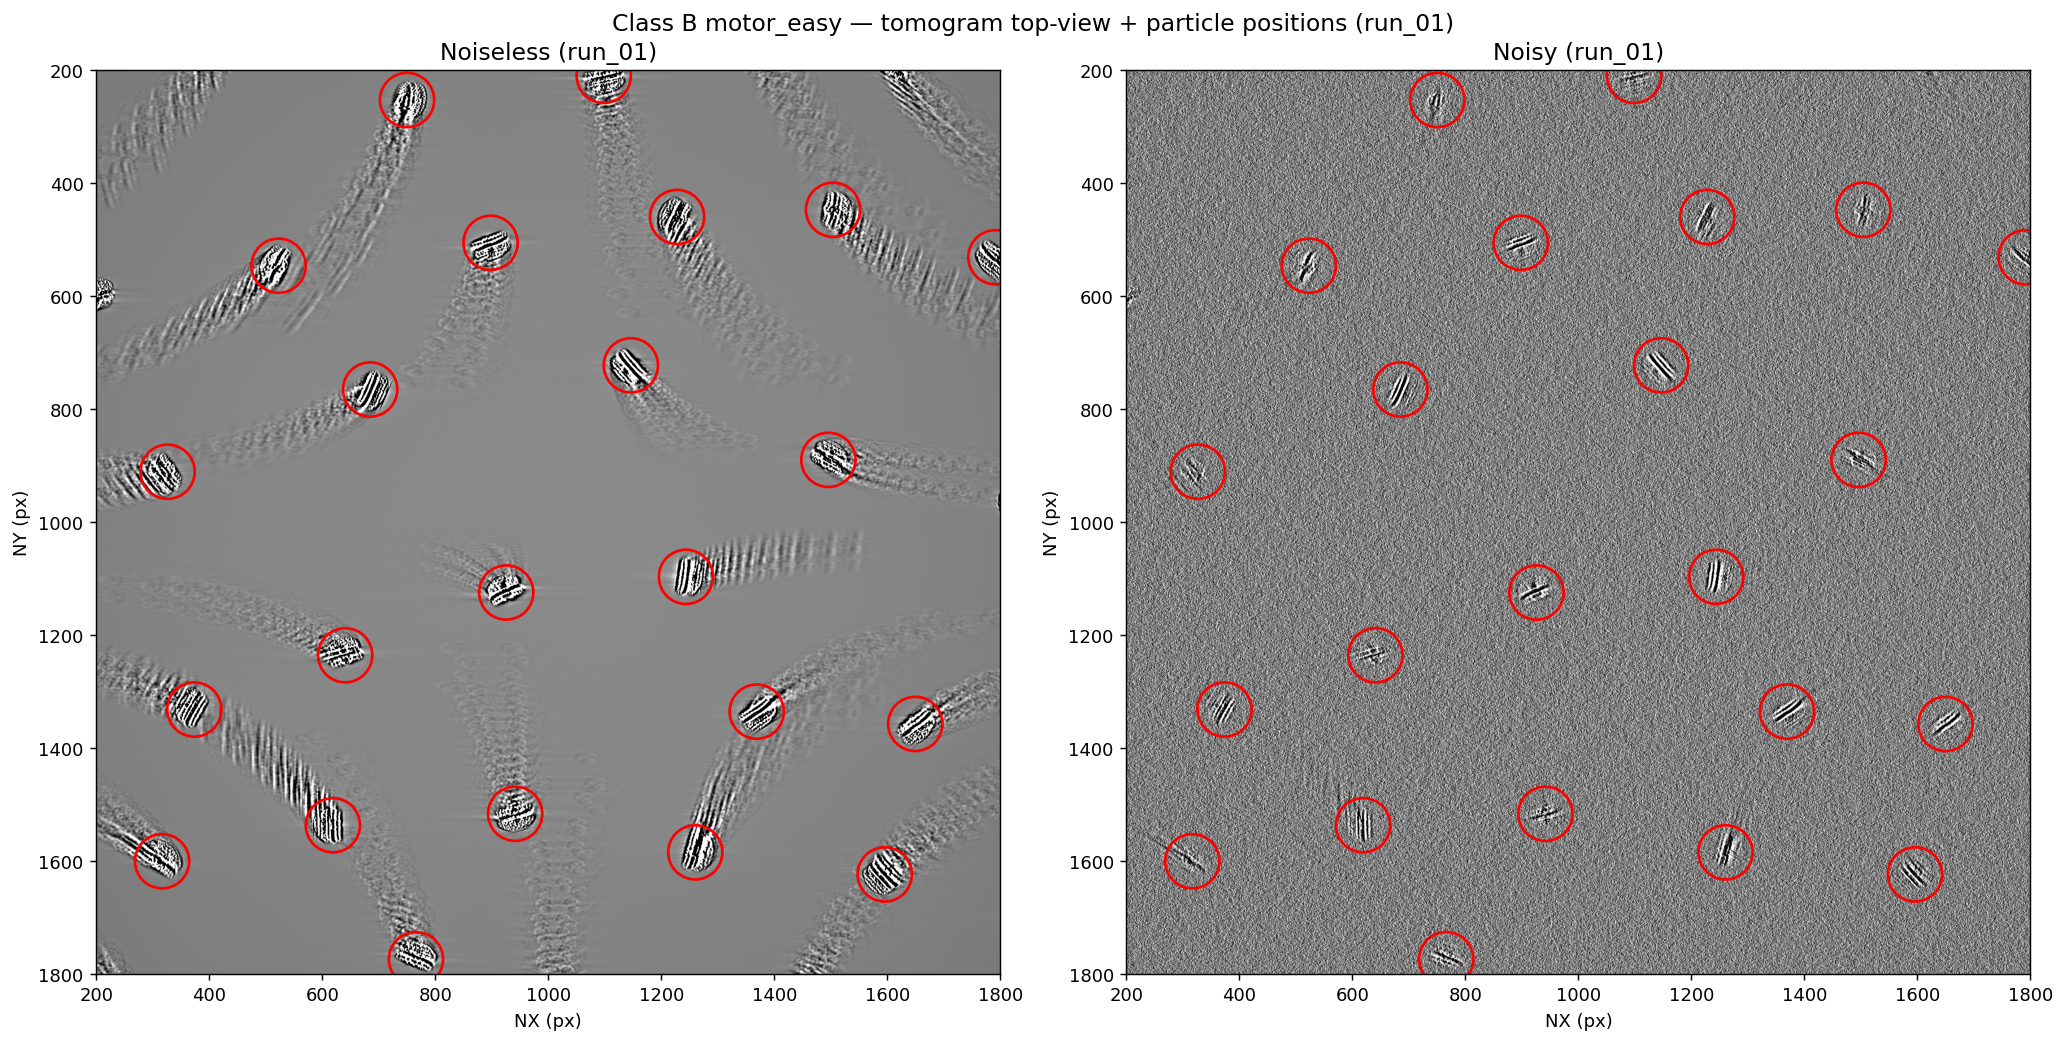
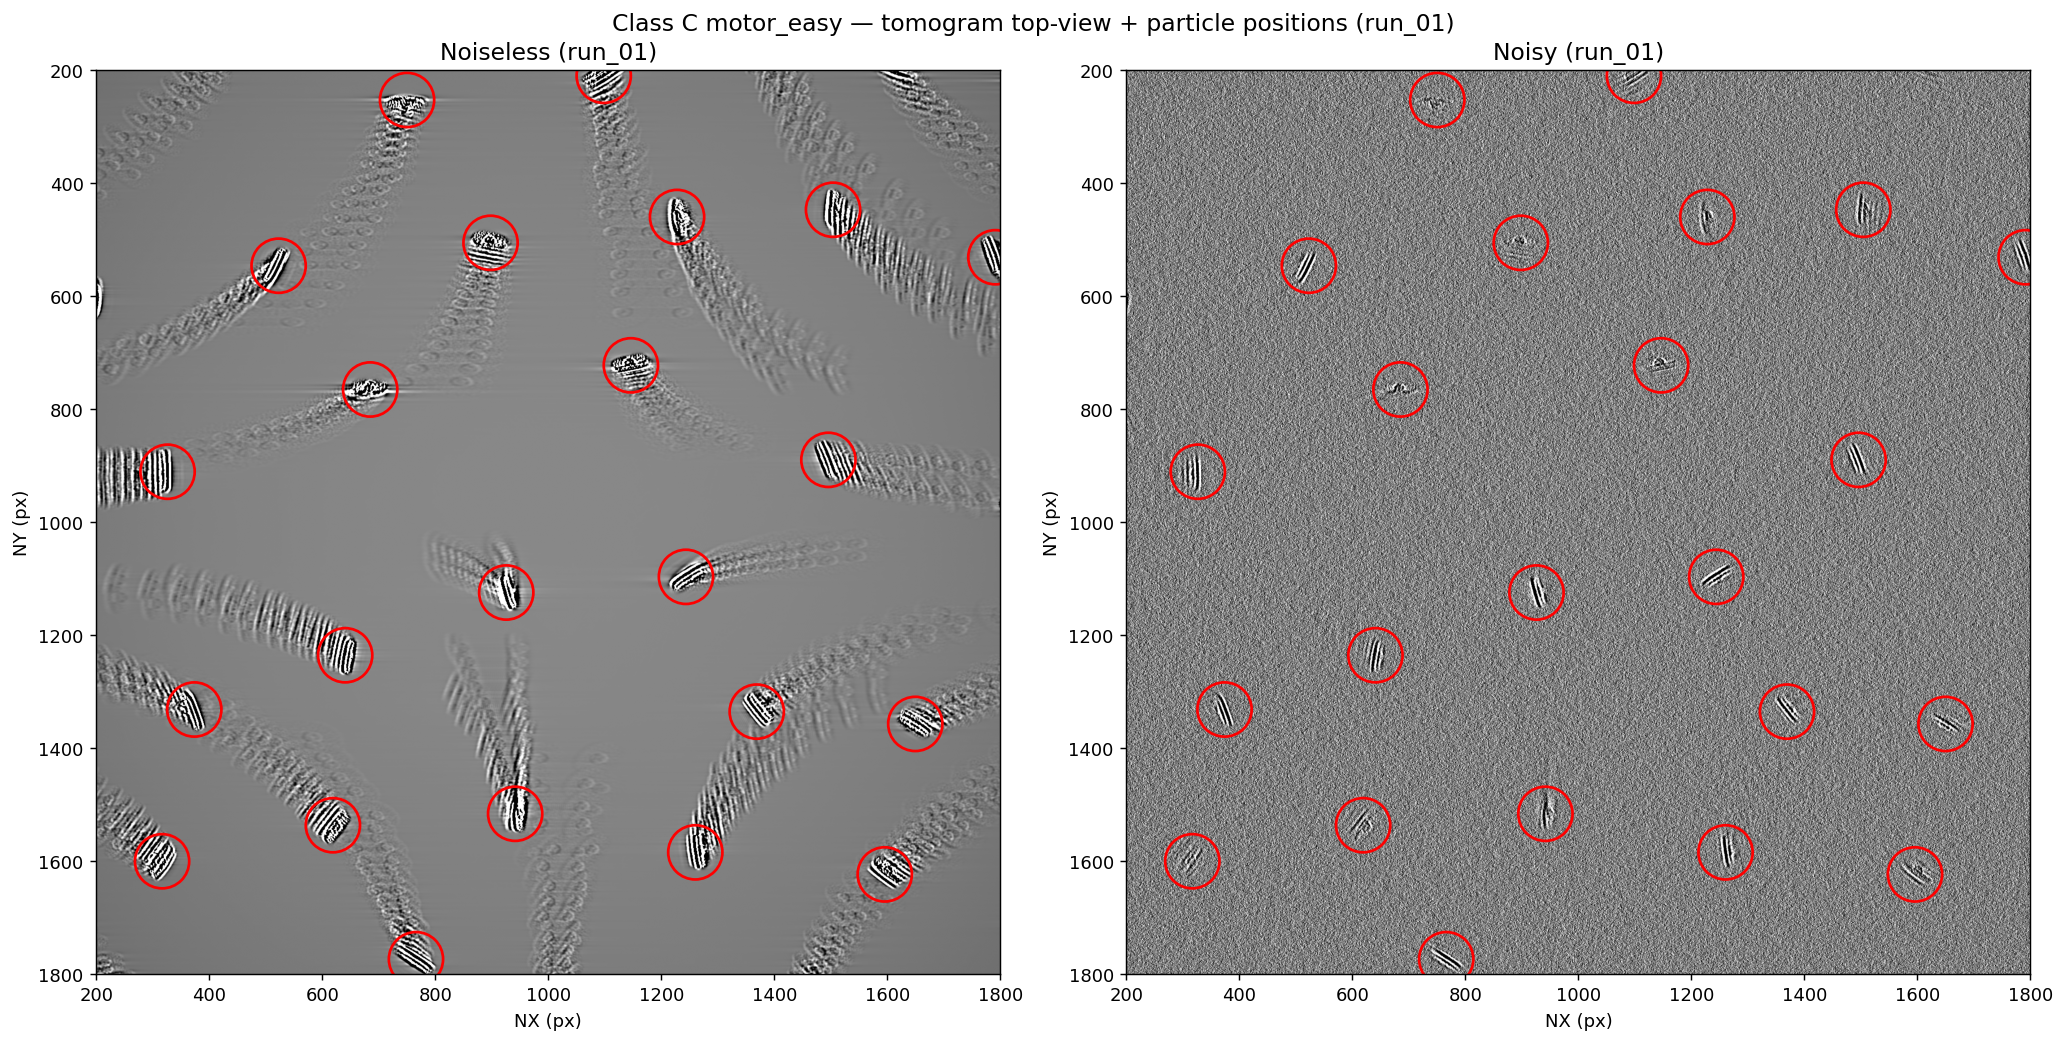
README: apply review corrections and add synthetic class map figures
- Fix SPA background: clarify images are of different randomly-oriented
  particles at different grid positions, not a tilted sample
- Update Project Goal to reflect 4 planned datasets (2 real, 2 synthetic)
- Strengthen "What Makes This Unique" ground-truth row
- Add note that excluding 2D classifiers is a known scope limitation
- Cite Stefano's bioRxiv preprint; describe T4P classes as lower
  periplasmic ring conformational states per Figure 2; temper language
  around Dynamo result and UMAP separation
- Switch synthetic tomogram figure to class C (noiseless+noisy available;
  caption explains all classes are visually indistinguishable in raw data)
- Replace class B/C average pair with class A/C; add generated classA_avg.png
- Add motor_easy_class_maps.png showing all three input density maps
- Swap PEET figure to class_averages_v2_masked_xy_diff.png; update caption
- Preliminary findings: add PEET as second converging package; quote
  "converged" to clarify visual-inspection basis; add TomoFlow + PyTom
  failure examples
- Open Questions: remove Dynamo-as-proxy-GT framing; remove action-item
  language; reframe as open scientific need
- Team: Josh and Eben → Recent Graduate + primary researcher; add Gus Hart

diff --git a/README.md b/README.md
@@ -2,7 +2,7 @@
 
 **The first systematic benchmark of 3D-input subtomogram classification packages on realistic in-situ CryoET data of membrane-embedded complexes.**
 
-> Real sparse data (500–1000 particles) · In-situ membrane-embedded targets · Expert ground truth · Synthetic data with known class labels · 10+ packages evaluated
+> Real sparse data (500–1000 particles) · In-situ membrane-embedded targets · Expert-validated structural classes · Synthetic data with known ground-truth labels · 10+ packages evaluated
 
 ---
 
@@ -24,26 +24,28 @@
 
 ### Single Particle Analysis (SPA)
 
-SPA is the dominant cryo-EM method for determining macromolecular structure. The target complex is biochemically purified and flash-frozen in a thin ice layer. The electron microscope collects thousands of 2D projection images of the same complex at random orientations; these are aligned and averaged to reconstruct the 3D density map. SPA works exceptionally well—but only for complexes that can be isolated from the cell.
+SPA is the dominant cryo-EM method for determining macromolecular structure. The target complex is biochemically purified and flash-frozen in a thin ice layer, producing a sample containing billions of identical copies of the complex, each frozen in a random orientation. The electron microscope scans across different regions of this grid, collecting thousands of 2D images; each image captures many different particles, all at different orientations because of how they settled and froze. No tilting is involved — the diversity of views comes entirely from the random orientations of the particles themselves. These thousands of 2D projection images are then aligned and averaged computationally to reconstruct the 3D density map. SPA works exceptionally well — but only for complexes that can be isolated from the cell.
 
 ### CryoET and Subtomogram Averaging (STA)
 
-Many of the most scientifically important complexes—the **Flagellar Motor**, **Type IV Pilus (T4P)**, nuclear pore complex, and others—are membrane-embedded. Trying to isolate them breaks apart the cell membrane, destroying the very structure you want to image. **Cryogenic Electron Tomography (CryoET)** solves this by imaging the entire intact cell. The sample is tilted through a series of angles (typically ±60°), and the 2D images at each tilt are computationally reconstructed into a 3D volume called a **tomogram** (`.mrc` format).
+Many of the most scientifically important complexes — the **Flagellar Motor**, **Type IV Pilus (T4P)**, nuclear pore complex, and others — are membrane-embedded. Trying to isolate them breaks apart the cell membrane, destroying the very structure you want to image. **Cryogenic Electron Tomography (CryoET)** solves this by imaging the entire intact cell. The sample is tilted through a series of angles (typically ±60°), and the 2D images at each tilt are computationally reconstructed into a 3D volume called a **tomogram** (`.mrc` format).
 
 From the tomogram, the target complex is located, extracted as a small 3D subvolume (a **subtomogram**), and aligned so all copies face the same direction. Averaging hundreds of aligned subtomograms produces a 3D electron density map at higher signal-to-noise ratio. This entire pipeline is called **Subtomogram Averaging (STA)**.
 
-Because the complex is imaged *in situ* inside an intact cell, the population of complexes spans all their natural conformational states—assembly intermediates, active/inactive forms, ligand-bound states. **Classification** is the step that sorts these subtomograms into structurally distinct classes before averaging, and it is the focus of this benchmark.
+Because the complex is imaged *in situ* inside an intact cell, the population of complexes spans all their natural conformational states — assembly intermediates, active/inactive forms, ligand-bound states. **Classification** is the step that sorts subtomograms into structurally distinct classes before averaging, and it is the central focus of this benchmark.
 
 ---
 
 ## Project Goal
 
-Many packages using different classification algorithms have been developed for STA. However, **no systematic benchmarking has been done** across these packages on the same dataset with standardized preprocessing. This project creates such a benchmark:
+Many packages using different classification algorithms have been developed for STA. However, **no systematic benchmarking has been done** across these packages on the same dataset with standardized preprocessing. This project creates such a benchmark using four datasets:
 
-- **Real dataset:** 672 prealigned T4P subtomograms from *Vibrio* cells with expert-validated ground truth
-- **Synthetic dataset:** 634 subtomograms of flagellar motor assembly intermediates with exact per-particle ground-truth class labels
-- **Packages:** 10+ packages run on both datasets with identical preprocessing
-- **Evaluation:** Four-pillar scoring framework (external validity, downstream resolution, stability, cross-package consensus)
+- **Real dataset 1:** 672 prealigned T4P subtomograms from *Vibrio* cells with expert-validated structural classes
+- **Real dataset 2:** Type IV Secretion System (T4SS) — planned; target organism and source TBD
+- **Synthetic dataset 1:** `motor_easy` — 3-class flagellar motor assembly intermediates (634 particles, exact per-particle ground-truth labels known)
+- **Synthetic dataset 2:** Planned — likely harder, with smaller structural differences (~10 Å) between classes
+
+All packages are run with identical preprocessing on both real and synthetic data. Scores on synthetic data anchor the real-data results via ARI and related external-validity metrics.
 
 ---
 
@@ -51,13 +53,15 @@ Many packages using different classification algorithms have been developed for 
 
 | Challenge | Existing benchmarks | This benchmark |
 |---|---|---|
-| **Target complexity** | Mostly soluble complexes (80S ribosome, etc.) that don't need CryoET | Membrane-embedded complexes (T4P, flagellar motor) — the canonical CryoET targets |
+| **Target complexity** | Mostly soluble complexes (80S ribosome, etc.) that don't require CryoET | Membrane-embedded complexes (T4P, flagellar motor) — the canonical CryoET targets |
 | **Particle count** | 10,000–100,000 particles | 500–1,000 particles — realistic for large membrane complexes |
 | **Input dimensionality** | Mix of 2D and 3D workflows | 3D-only classifiers, isolating the subtomogram classification step |
-| **Ground truth** | Computationally generated from known structures | Expert visual inspection (T4P) + simulation ground truth (synthetic) |
+| **Ground truth** | Computationally generated at known positions in synthetic maps | Expert structural validation against a published in-situ study of the same complex; synthetic data with exact per-particle GT labels |
 | **Scope** | Individual package evaluations | Systematic head-to-head comparison with standardized I/O |
 
-Sparse particle counts (~600–1000) fundamentally change classification: resolution and class separation depend heavily on N, noise dominates individual particles, and instability is the primary failure mode. Existing benchmarks at 10,000+ particles simply do not test this regime.
+Sparse particle counts (~600–1,000) fundamentally change classification: resolution and class separation depend heavily on N, noise dominates individual particles, and instability is the primary failure mode. Existing benchmarks at 10,000+ particles simply do not test this regime.
+
+We also recognize that limiting evaluation to 3D-input classifiers foregoes a large number of state-of-the-art packages that operate on 2D tilt-series images or 2D projections of subtomograms. These methods have grown considerably in both capability and adoption. Extending this benchmark to 2D-input classifiers is a natural and important next step.
 
 ---
 
@@ -67,19 +71,19 @@ Sparse particle counts (~600–1000) fundamentally change classification: resolu
 
 **672 hand-picked, prealigned 80³ subtomograms** at 13.33 Å/px, extracted from *Vibrio* cryo-tomograms.
 
-**Ground truth (expert, Stefano):** Two structurally distinct pili-phase classes exist in this dataset. Dynamo HAC classification recovers them cleanly (447 vs. 225 particles) and was confirmed correct by visual inspection by the domain expert. This two-class split is the reference standard against which all other packages are measured.
+**Expert-validated structural classes:** The T4P pilus system in *Vibrio* exists in two distinct conformational states corresponding to different configurations of the lower periplasmic ring, as described in the published structural study of this system (Bharat lab, bioRxiv 2025 — see [preprint](https://www.biorxiv.org/content/10.1101/2025.10.14.680967v1.full), Figure 2). Expert inspection of class averages from this dataset confirms the presence of both conformational states. This serves as the qualitative reference standard against which package outputs are evaluated; while the class split ratio and exact particle assignments vary between packages and with the published result, packages whose averaged structures are consistent with both known states are considered to have "converged." Fully quantitative per-particle ground-truth labels are not yet available for this dataset.
 
 <p align="center">
   <img src="dynamo/dynamo_final_results/class_comparison.png" width="780" alt="Dynamo HAC T4P two-class result: central XY slices of Class 1 (ring-complete, n=447) and Class 2 (ring-altered, n=225) with per-class FSC resolution estimates"/>
 </p>
 
-<p align="center"><em>Dynamo HAC classification of T4P (reference result). Two structurally distinct pili phases are cleanly separated. Class 1 resolves to 62.7 Å (FSC=0.5); Class 2 to 96.9 Å due to smaller class size. Central XY slices shown.</em></p>
+<p align="center"><em>Dynamo HAC classification of T4P (reference result). Two class averages consistent with the known lower periplasmic ring conformational states are recovered. Class 1: 62.7 Å (FSC=0.5); Class 2: 96.9 Å (FSC=0.5). The split ratio differs from the published study, and further quantitative validation is needed to confirm robustness.</em></p>
 
 <p align="center">
   <img src="dynamo/dynamo_final_results/embedding_umap.png" width="540" alt="UMAP embedding of T4P particles colored by Dynamo HAC class assignment"/>
 </p>
 
-<p align="center"><em>UMAP of Dynamo's cross-correlation embedding (672 particles). The two classes occupy largely distinct regions of embedding space, confirming genuine structural separation.</em></p>
+<p align="center"><em>UMAP of Dynamo's cross-correlation embedding (672 particles). The two classes show partial separation in embedding space, but the overlap is substantial — the UMAP is consistent with two structural populations but is not conclusive on its own.</em></p>
 
 ---
 
@@ -87,25 +91,37 @@ Sparse particle counts (~600–1000) fundamentally change classification: resolu
 
 **634 subtomograms** simulated with ETSimulations at 13.33 Å/px, 80³ box, SNR matched to the real T4P data. Three ground-truth classes model progressive flagellar motor assembly:
 
-| Class | Description | N particles | Notes |
-|---|---|---|---|
-| **A** — `ring_complete` | Full motor: C-ring + MS-ring present | 246 | Most assembled state |
-| **B** — `noCring` | Motor core + MS-ring, C-ring absent | 211 | |
-| **C** — `core_only` | Motor core only, both rings absent | 177 | Least assembled state |
+| Class | Description | N particles |
+|---|---|---|
+| **A** — `ring_complete` | Full motor: C-ring + MS-ring present | 246 |
+| **B** — `noCring` | Motor core + MS-ring; C-ring absent | 211 |
+| **C** — `core_only` | Motor core only; both rings absent | 177 |
 
-Class differences are ~30 Å — large enough to be detectable but realistic for assembly intermediates. A smaller-difference dataset is planned as a harder benchmark track.
+Class differences are ~30 Å — large enough to be detectable but realistic for assembly intermediates. The A–C boundary is the most distinct; A–B and B–C are progressively harder to separate. A smaller-difference dataset is planned as a harder benchmark track.
+
+**Input density maps** — the three ground-truth structural variants used to simulate the data:
 
 <p align="center">
-  <img src="etsimulation/figures/motor_easy_sim_tomo.png" width="720" alt="Simulated motor_easy tomogram showing noiseless (left) and noisy (right) reconstructions with particle positions circled"/>
+  <img src="etsimulation/figures/motor_easy_class_maps.png" width="780" alt="Orthoslice views of the three class density maps: Class A (ring_complete), Class B (noCring), Class C (core_only)"/>
 </p>
 
-<p align="center"><em>Simulated motor_easy tomogram (Class B shown): noiseless reconstruction (left) alongside the realistic noisy reconstruction (right) with particle positions marked. Noise and missing wedge artifacts from the ±60° tilt-series simulation are clearly visible.</em></p>
+<p align="center"><em>Input density maps for the three synthetic classes (rows: A, B, C; columns: YZ side, XY top-down, XZ section, 3D render). The progressive loss of the C-ring (A→B) and MS-ring (B→C) is clearly visible in the clean maps. These structural differences become far less obvious after noise and missing-wedge artifacts are introduced.</em></p>
+
+**Simulated reconstruction** — what the data actually looks like after tilt-series simulation and WBP reconstruction:
+
+<p align="center">
+  <img src="etsimulation/figures/motor_easy_sim_tomo.png" width="720" alt="Simulated motor_easy tomogram: noiseless reconstruction (left) and noisy WBP reconstruction (right) with particle positions annotated"/>
+</p>
+
+<p align="center"><em>Simulated tomogram: noiseless reconstruction (left) alongside the realistic noisy WBP reconstruction (right) with particle positions marked. Noise, CTF, and missing-wedge artifacts from the ±60° tilt-series simulation are clearly visible. All three classes appear visually indistinguishable in individual raw particles — structural differences only emerge after alignment and averaging.</em></p>
+
+**GT-aligned class averages** — what classification packages need to recover:
 
 <table align="center">
   <tr>
     <td align="center">
-      <img src="etsimulation/figures/motor_easy_classB_avg.png" width="420" alt="Class B GT-aligned average: motor core visible, C-ring absent"/>
-      <br><em>Class B GT-aligned average (n=211)<br>Motor core + MS-ring; C-ring absent</em>
+      <img src="etsimulation/figures/motor_easy_classA_avg.png" width="420" alt="Class A GT-aligned average: full motor with C-ring and MS-ring"/>
+      <br><em>Class A GT-aligned average (n=246)<br>Full motor: C-ring + MS-ring present</em>
     </td>
     <td align="center">
       <img src="etsimulation/figures/motor_easy_classC_avg.png" width="420" alt="Class C GT-aligned average: motor core only, both rings absent"/>
@@ -114,15 +130,13 @@ Class differences are ~30 Å — large enough to be detectable but realistic for
   </tr>
 </table>
 
-**GT separability (validated):** Template-matching on GT-aligned subtomos gives ARI = 0.289 (~68–73% per-class accuracy on individual noisy particles), confirming the classes are structurally distinct but not trivially separable. Class average CCs: A–B = 0.72, A–C = 0.66, B–C = 0.83.
-
-Per-particle ground-truth labels: `synthetic_sta/motor_easy/production/labels.csv`.
+**GT separability (validated):** Template-matching on GT-aligned subtomos gives ARI = 0.289 (~68–73% per-class accuracy on individual noisy particles), confirming the classes are structurally distinct but not trivially separable. Class average CCs: A–B = 0.72, A–C = 0.66, B–C = 0.83. Per-particle ground-truth labels: `production/labels.csv`.
 
 ---
 
 ## Packages Evaluated
 
-We evaluate only packages that perform classification on **3D subvolumes** as input. This focuses the benchmark on the classification step while acknowledging that many modern packages have shifted to 2D workflows for efficiency (a companion 2D benchmark is a natural extension).
+We evaluate only packages that perform classification on **3D subvolumes** as input, isolating the subtomogram classification step. This excludes many modern packages that operate on 2D tilt-series data or 2D projections; a companion 2D benchmark is a natural extension.
 
 <details>
 <summary><strong>Full package status table (click to expand)</strong></summary>
@@ -131,15 +145,15 @@ Legend: ✅ done · 🟡 in progress · ⬜ not started · ❌ skipped
 
 | Package | Status | Env | k=2 | k=3 | k=4 | T4P result | Notes |
 |---|---|---|---|---|---|---|---|
-| **RELION 3.1–4.0** | ✅ | `relion-5.0` | ✅ | ✅ | ✅ | Missed two phases (CC 0.97–0.997, no discrete split) | Classic `relion_refine` 3D-classify path retained in RELION 5 |
-| **Dynamo** | ✅ | MATLAB | ✅ | — | — | **Reference result** — cleanly recovers both phases (HAC 447:225, expert-confirmed) | `dynamo/` workspace |
-| **PEET** | 🟡 | IMOD | 🟡 | — | — | k=2 best result 412:260 (PCs 1:3); cannot fully reproduce paper's 5:1 (uniform-wedge pre-aligned stack) | Need Stefano's MOTL for exact GT labels |
-| **PyTom** | ✅ | `pytom_env` | ✅ | ✅ | ⬜ | k=2 and k=3 class averages look identical — classification not separating structure | `PyTom/figures/` |
-| **DISCA** | ✅ | `disca` | ✅ | ✅ | ✅ | One dominant ~94% class + small outliers — missed both phases | Template-free deep clustering; `disca/results/` |
-| **TomoFlow** | ✅ | `tomoflow` | ✅ | ✅ | ✅ | Unimodal landscape — missed both phases (k=3 two large-class CC 0.956) | ContinuousFlex-based; `tomoflow/results/` |
-| **I3 / ProTomo** | ✅ | native | ✅ | — | — | CC = 0.921; did not recover the two phases | `protomo/` |
-| **EMAN2** | ✅ | `eman2` | ✅ | ⬜ | ⬜ | k=2: splits particles but not into the two known pili phases | `~/src/eman2_project/`; k=3/4 pending |
-| **OPUS-TOMO** | ✅ | `opuset` | ✅ | ✅ | ✅ | Generates multiple structured ~40–50 kDa classes; structured heterogeneity captured | 4 bugs patched; `opusPatches/` |
+| **RELION 3.1–4.0** | ✅ | `relion-5.0` | ✅ | ✅ | ✅ | Did not recover the two conformational states (CC 0.97–0.997, no discrete structural split) | Classic `relion_refine` 3D-classify path retained in RELION 5 |
+| **Dynamo** | ✅ | MATLAB | ✅ | — | — | **Reference result** — recovered both conformational states (HAC 447:225) | `dynamo/` workspace |
+| **PEET** | 🟡 | IMOD | 🟡 | — | — | Recovered structurally distinct classes consistent with known states (374:230, mask v2); split ratio differs from published result | Need quantitative per-particle GT to confirm |
+| **PyTom** | ✅ | `pytom_env` | ✅ | ✅ | ⬜ | k=2 and k=3 class averages look structurally identical — classification not separating the two states | `PyTom/figures/` |
+| **DISCA** | ✅ | `disca` | ✅ | ✅ | ✅ | One dominant ~94% class + small noisy residual at all k — did not separate the two states | Template-free deep clustering; `disca/results/` |
+| **TomoFlow** | ✅ | `tomoflow` | ✅ | ✅ | ✅ | Unimodal landscape — did not separate the two states (k=3 two large-class CC 0.956) | ContinuousFlex-based; `tomoflow/results/` |
+| **I3 / ProTomo** | ✅ | native | ✅ | — | — | CC = 0.921; did not recover the two states | `protomo/` |
+| **EMAN2** | ✅ | `eman2` | ✅ | ⬜ | ⬜ | k=2 splits particles but not into the two known states | `~/src/eman2_project/`; k=3/4 pending |
+| **OPUS-TOMO** | ✅ | `opuset` | ✅ | ✅ | ✅ | Generates multiple structured classes; structured heterogeneity captured but not aligned to known states | 4 bugs patched; `opusPatches/` |
 | **STOPGAP** | 🟡 | — | ⬜ | ⬜ | ⬜ | Not yet run | **Eben's package**; optimized 6-iter schedule designed |
 | **emClarity** | ✅ (installed) | MCR R2019a | — | — | — | Cannot ingest pre-extracted subtomos | **Synthetic-data track only** (tilt-series pipeline) |
 | **MDTOMO** | ❌ skipped | — | — | — | — | — | Requires initial atomic model — out of scope for this benchmark |
@@ -149,28 +163,22 @@ Legend: ✅ done · 🟡 in progress · ⬜ not started · ❌ skipped
 
 </details>
 
-**Summary (real T4P):** 9 of 10 active packages run. Of these, **only Dynamo** consistently recovers the expert-validated two pili-phase classes. RELION, PyTom, ProTomo, DISCA, TomoFlow, and OPUS-TOMO all produce one dominant class. This is the central finding of the real-data track.
+**PEET class averages and difference map (mask v2):**
 
 <p align="center">
-  <img src="disca/results/disca_class_averages_sidebyside.png" width="640" alt="DISCA T4P results at k=2, 3, 4: one dominant ~94% class dominates at all k"/>
+  <img src="peet/results/class_averages_v2_masked_xy_diff.png" width="740" alt="PEET T4P classification with mask v2: Class 1 (ring_complete, n=374), Class 2 (ring_altered, n=230), and color-coded XY difference map"/>
 </p>
 
-<p align="center"><em>DISCA on T4P at k=2, 3, 4 (representative of most packages). One dominant class contains ~93–94% of particles at all k values — the two known pili phases are not separated.</em></p>
-
-<p align="center">
-  <img src="peet/results/class_averages_masked_xy_diff_bestZ.png" width="700" alt="PEET T4P class averages and XY difference map with cylindrical mask"/>
-</p>
-
-<p align="center"><em>PEET T4P class averages with cylindrical mask and XY difference map (strongest-difference Z-slice). Class 1 (ring_complete, n=413) vs. Class 2 (ring_altered, n=191). Structural differences are visible in the ring region of the XY projection.</em></p>
+<p align="center"><em>PEET T4P classification (mask v2, cylindrical). Class 1 (ring_complete, n=374) vs. Class 2 (ring_altered, n=230). Full XY slice shown; red = more density in Class 1, blue = more density in Class 2. Structural differences concentrate in the ring region, consistent with the known lower periplasmic ring conformational states.</em></p>
 
 ---
 
 ## Evaluation Framework
 
-Classification results are scored across four pillars. On **synthetic data** with known ground-truth labels, external validity metrics (ARI, AMI, per-class accuracy) anchor all results. On **real T4P data**, stability and cross-package consensus carry more weight.
+Classification results are scored across four pillars. On **synthetic data** with known ground-truth labels, external validity metrics (ARI, AMI, per-class accuracy) anchor all results. On **real T4P data**, stability and cross-package consensus carry more weight in the absence of quantitative per-particle GT.
 
 ### Pillar 1 — External Validity vs. Ground Truth (synthetic track)
-Primary metric: **ARI (Adjusted Rand Index)** — handles class-label permutations, adjusted for chance, range [−1, 1].
+Primary metric: **ARI (Adjusted Rand Index)** — handles arbitrary class-label permutations, adjusted for chance, range [−1, 1].
 Supporting: AMI (Adjusted Mutual Information), accuracy after Hungarian label matching, per-class recall.
 
 ### Pillar 2 — Downstream STA Resolution
@@ -202,24 +210,40 @@ Aggregate by rank-based Borda count (scales are incommensurable):
 ## Preliminary Findings
 
 ### Real T4P
-- **Dynamo is the only package to recover the expert-validated two pili-phase split.** All other completed packages (RELION, PyTom, ProTomo, DISCA, TomoFlow) converge on a single dominant class, which constitutes a shared failure on this dataset.
-- OPUS-TOMO captures structured heterogeneity across multiple classes but does not align to the two known pili phases.
-- PEET recovers a ~1.6:1 split (412:260) that is visually closer to the known structure, but cannot reproduce the original paper's 5:1 ratio from the pre-aligned stack (uniform missing-wedge direction prevents WMD from working per-particle).
+
+- **Dynamo and PEET are the two packages whose class averages are visually consistent with the two known lower periplasmic ring conformational states** — though this judgment is based on visual inspection of class averages against the published structural result, not quantitative per-particle ground truth. All other completed packages (RELION, PyTom, ProTomo, DISCA, TomoFlow) did not recover the two states.
+- The class split ratio differs across Dynamo, PEET, and the published result, and the individual package results have not yet been validated for bootstrap stability or cross-package agreement. These are necessary before drawing strong comparative conclusions.
+- OPUS-TOMO generates multiple structured classes capturing heterogeneity, but the classes are not yet mapped to the two known conformational states.
+
+**Examples of packages that did not separate the known states:**
+
+<table align="center">
+  <tr>
+    <td align="center">
+      <img src="tomoflow/results/tomoflow_k2_classes.png" width="340" alt="TomoFlow k=2 class averages: both classes show the same T4P structure"/>
+      <br><em>TomoFlow k=2: both classes show the same pilus structure — the two conformational states are not separated</em>
+    </td>
+    <td align="center">
+      <img src="PyTom/figures_k2/class_0_central_slice.png" width="340" alt="PyTom k=2 Class 0: dominant class shows T4P structure"/>
+      <br><em>PyTom k=2 dominant class: structurally identical to the minor class — classification collapsed to one effective class</em>
+    </td>
+  </tr>
+</table>
 
 ### Synthetic motor_easy
 - Ground-truth class averages validated: Class A–B CC = 0.72, A–C CC = 0.66, B–C CC = 0.83. Classes are structurally distinct and non-trivially separable.
-- Template-matching baseline ARI = 0.289 on GT-aligned particles (~68–73% per-class accuracy). Random classifier gives ARI ≈ 0.
+- Template-matching baseline ARI = 0.289 on GT-aligned particles (~68–73% per-class accuracy on individual noisy particles). Random classifier gives ARI ≈ 0.
 - Package runs on synthetic data in progress (RELION, PEET, Dynamo first).
 
 ---
 
 ## Open Questions
 
-1. **Per-particle GT labels for real T4P:** Stefano's PEET MOTL files would provide exact particle-level class assignments. Without them, Dynamo HAC (447:225) serves as the proxy GT. *(Josh → email Stefano)*
-2. **Missing-wedge standardization:** How to handle the wedge uniformly across packages — provide per-particle tilt geometry and let each package apply its own correction, or preprocess uniformly? *(Stefano / Braxton)*
-3. **Continuous-classifier discretization:** For packages that produce continuous outputs, how to choose the discretization threshold for STA? *(Stefano)*
-4. **Off-class / outlier particles:** How to handle particles that don't fit the main classes. *(Josh)*
-5. **Benchmark framework design choices:** See `benchmarkIdeas.md` §11 for five open questions on pillar weights, Dynamo GT robustness, synthetic sweep dimensions, and FSC strategy.
+1. **Per-particle ground-truth labels for real T4P:** Exact per-particle class assignments for the real T4P dataset are not yet available. The best available signal is structural consistency of class averages with published conformational states. Quantitative per-particle labels remain an open need for fully rigorous benchmarking on the real-data track.
+2. **Missing-wedge standardization:** Whether to provide per-particle tilt geometry and let each package apply its own correction, or preprocess uniformly. *(Stefano / Braxton)*
+3. **Continuous-classifier discretization:** For packages that produce continuous outputs, how to choose the discretization threshold for STA. *(Stefano)*
+4. **Off-class / outlier particles:** How to handle particles that don't fit the main classes.
+5. **Benchmark framework design choices:** See `benchmarkIdeas.md` §11 for five open questions on pillar weights, synthetic sweep dimensions, FSC strategy, and more.
 
 ---
 
@@ -254,7 +278,8 @@ Large files (`.mrc`, `.star`, `.hdf`, `.h5`) are gitignored. Only scripts, docs,
 
 | Person | Role |
 |---|---|
-| **Josh Blaser** | Undergrad, primary researcher |
-| **Eben** | Undergrad partner — STOPGAP, EMAN2, OPUS-TOMO |
+| **Josh Blaser** | Recent Graduate, primary researcher |
+| **Eben** | Recent Graduate, primary researcher |
 | **Stefano** | Postdoc, CryoET domain expert, manuscript review |
 | **Braxton Owens** | PhD student, guidance |
+| **Gus Hart** | Professor, primary advisor |